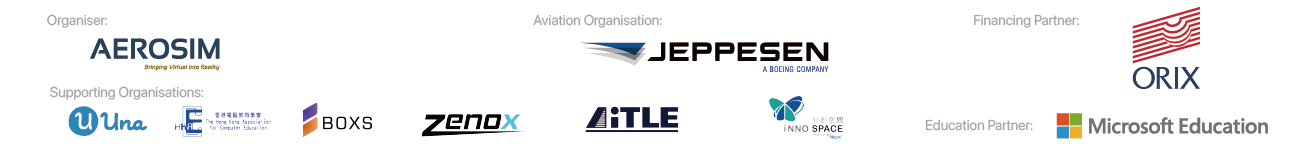
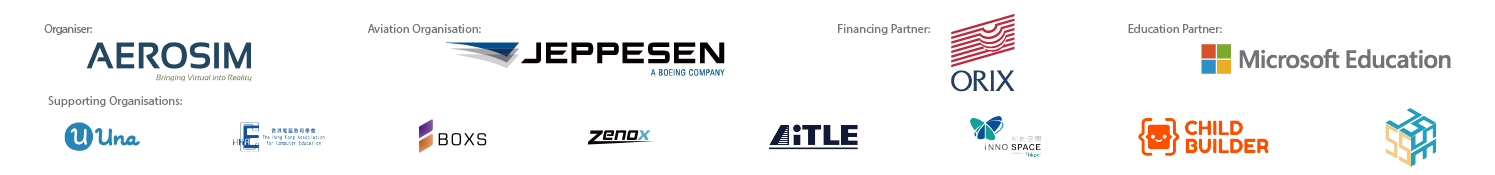
1749

diff --git a/app.js b/app.js
@@ -299,9 +299,9 @@ app.use('/api/arrivals', (req, res) => {
         airline: "AAC",
         flight: 1,
         city: "West Island School",
-        gate: "HK1",
-        status: "B",
-        remarks: "GATE OPEN"
+        gate: "INT",
+        status: "A",
+        remarks: "BOARDING"
       },
       {
         airline: "AAD",
@@ -324,8 +324,8 @@ app.use('/api/arrivals', (req, res) => {
         flight: 1,
         city: "Queen's College",
         gate: "HK1",
-        status: "C",
-        remarks: "LAST CALL"
+        status: "B",
+        remarks: "GATE OPEN"
       },
       {
         airline: "AAG",
@@ -348,8 +348,8 @@ app.use('/api/arrivals', (req, res) => {
         flight: 1,
         city: "PHC Wing Kwong College",
         gate: "KL4",
-        status: "C",
-        remarks: "LAST CALL"
+        status: "B",
+        remarks: "GATE OPEN"
       },
       {
         airline: "AAJ",
@@ -380,8 +380,8 @@ app.use('/api/arrivals', (req, res) => {
         flight: 1,
         city: "Hong Kong Teachers' Association Lee Heng Kwei Secondary School",
         gate: "NT6",
-        status: "B",
-        remarks: "GATE OPEN"
+        status: "A",
+        remarks: "BOARDING"
       },
       {
         airline: "AAN",
@@ -402,10 +402,10 @@ app.use('/api/arrivals', (req, res) => {
       {
         airline: "AAP",
         flight: 1,
-        city: "Carmel Alison Lam Foundation Secondary School",
-        gate: "NT1",
-        status: "C",
-        remarks: "LAST CALL"
+        city: "TWGHs Kap Yan Directors' College",
+        gate: "NT5",
+        status: "A",
+        remarks: "BOARDING"
       },
       {
         airline: "AAQ",
@@ -436,13 +436,13 @@ app.use('/api/arrivals', (req, res) => {
         flight: 1,
         city: "United Christian College (Kowloon East)",
         gate: "KL5",
-        status: "B",
-        remarks: "GATE OPEN"
+        status: "A",
+        remarks: "BOARDING"
       },
       {
         airline: "AAU",
         flight: 1,
-        city: "Queen's College Old Boys' Association Secoondary School",
+        city: "Queen's College Old Boys' Association Secondary School",
         gate: "HK1",
         status: "B",
         remarks: "GATE OPEN"
@@ -466,10 +466,10 @@ app.use('/api/arrivals', (req, res) => {
       {
         airline: "AAX",
         flight: 1,
-        city: "Po Leung Kuk Lo Kit Sing (1983) College",
-        gate: "NT1",
-        status: "C",
-        remarks: "LAST CALL"
+        city: "CCC Kei Yuen College",
+        gate: "NT4",
+        status: "A",
+        remarks: "BOARDING"
       },
       {
         airline: "AAY",
@@ -518,6 +518,54 @@ app.use('/api/arrivals', (req, res) => {
         gate: "KL1",
         status: "C",
         remarks: "LAST CALL"
+      },
+      {
+        airline: "ABE",
+        flight: 2,
+        city: "HKWMA Chu Shek Lun Secondary School",
+        gate: "KL1",
+        status: "B",
+        remarks: "GATE OPEN"
+      },
+      {
+        airline: "ABF",
+        flight: 1,
+        city: "Korean International School",
+        gate: "INT",
+        status: "B",
+        remarks: "GATE OPEN"
+      },
+      {
+        airline: "ABG",
+        flight: 1,
+        city: "Tsuen Wan Public Ho Chuen Yiu Memorial College",
+        gate: "NT2",
+        status: "A",
+        remarks: "BOARDING"
+      },
+      {
+        airline: "ABH",
+        flight: 1,
+        city: "Chinese YMCA Secondary School",
+        gate: "NT4",
+        status: "A",
+        remarks: "BOARDING"
+      },
+      {
+        airline: "ABI",
+        flight: 1,
+        city: "N.T. Heung Yee Kuk Yuen Long District Secondary School",
+        gate: "NT4",
+        status: "B",
+        remarks: "GATE OPEN"
+      },
+      {
+        airline: "ABJ",
+        flight: 1,
+        city: "SKH TANG SHIU KIN SECONDARY SCHOOL",
+        gate: "HK1",
+        status: "B",
+        remarks: "GATE OPEN"
       }
     ]
   };

diff --git a/public/plugins/arrivals/custom.css b/public/plugins/arrivals/custom.css
@@ -241,3 +241,21 @@
 .splitflap .image span.ABD {
   background-position: 0px -2000px;
 }
+.splitflap .image span.ABE {
+  background-position: 0px -2040px;
+}
+.splitflap .image span.ABF {
+  background-position: 0px -2080px;
+}
+.splitflap .image span.ABG {
+  background-position: 0px -2120px;
+}
+.splitflap .image span.ABH {
+  background-position: 0px -2160px;
+}
+.splitflap .image span.ABI {
+  background-position: 0px -2200px;
+}
+.splitflap .image span.ABJ {
+  background-position: 0px -2240px;
+}

diff --git a/public/index.html b/public/index.html
@@ -157,7 +157,7 @@
   <!-- END ROW TEMPLATE -->
   <!-- ============================================ -->
 
-  <img src="/img/support_organisation_qr.png" style="
+  <img src="/img/support_organisation.png" style="
     display: block;
     width: 100%;">
 

diff --git a/public/plugins/arrivals/custom.js b/public/plugins/arrivals/custom.js
@@ -51,7 +51,13 @@ sf.display.ImageDrum = function() {
     'ABA',
     'ABB',
     'ABC',
-    'ABD'
+    'ABD',
+    'ABE',
+    'ABF',
+    'ABG',
+    'ABH',
+    'ABI',
+    'ABJ'
   ];
 };
 
